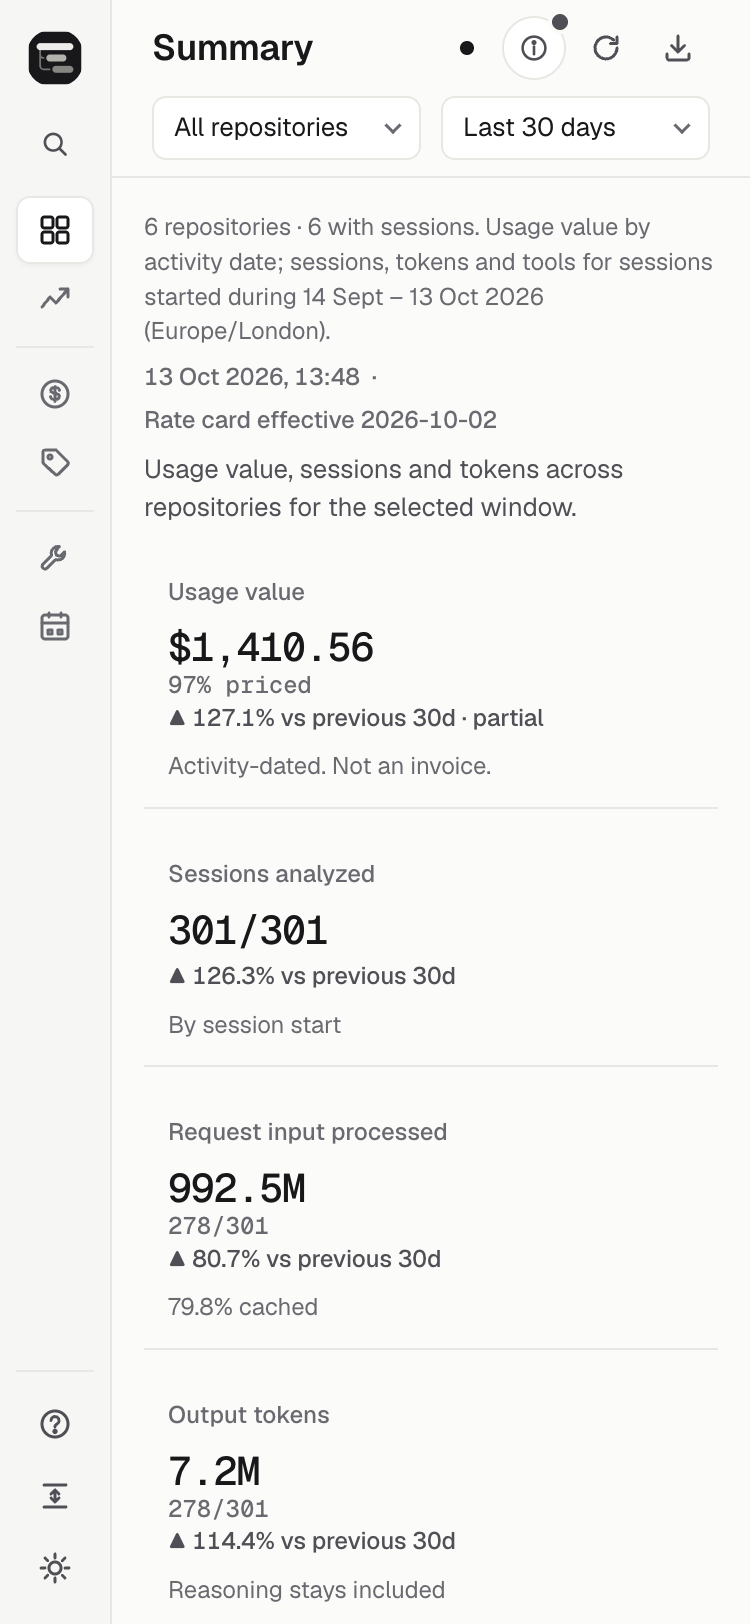
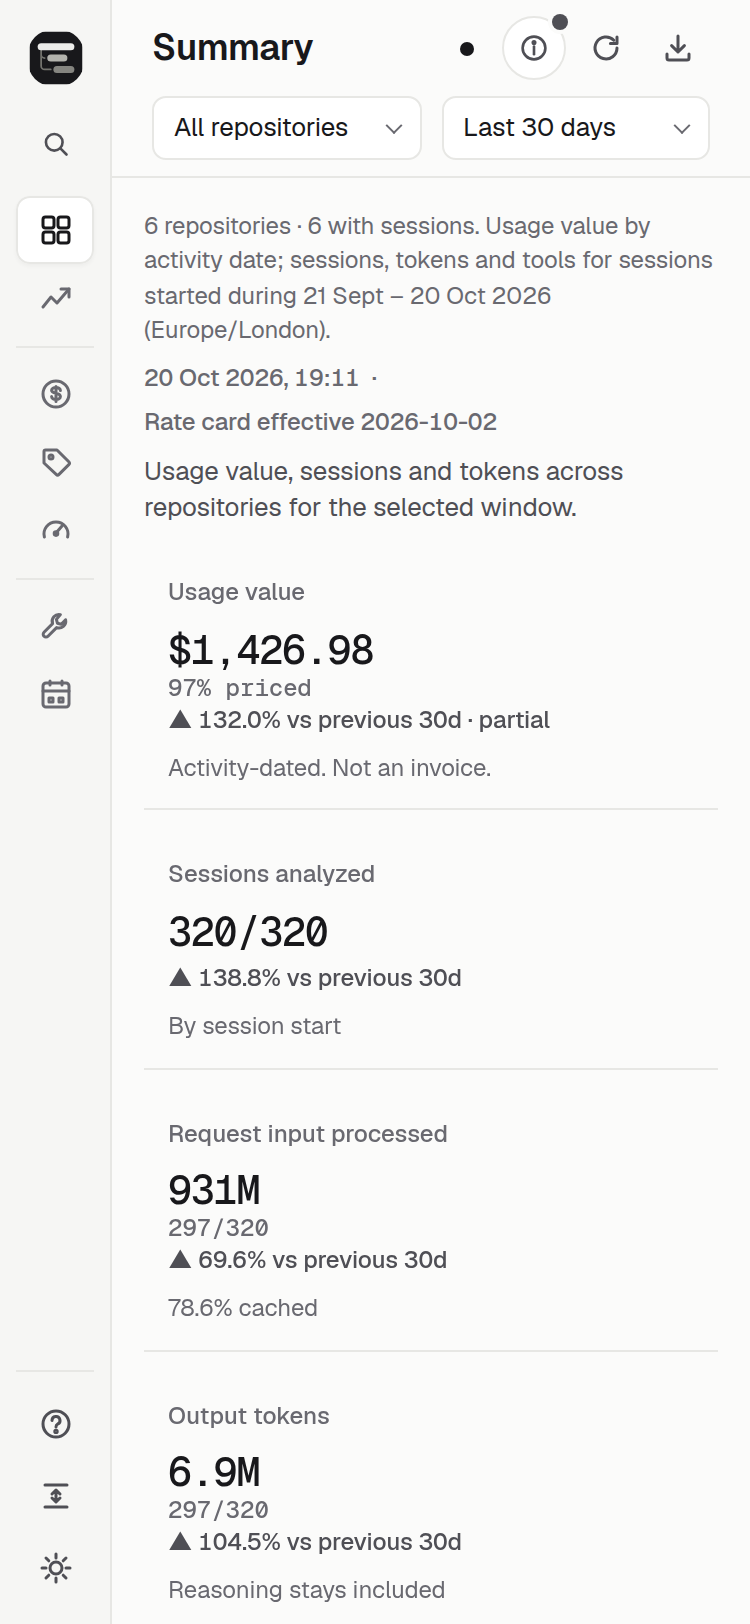
docs: refresh screenshots for Antigravity

diff --git a/scripts/screenshots.ts b/scripts/screenshots.ts
@@ -6,13 +6,12 @@
  *
  * Options: --url URL (default http://127.0.0.1:4175), --out DIR (default assets),
  * --only NAME (one capture, both themes), --chrome PATH (or the CHROME environment variable).
- * Requires Google Chrome and `cwebp` on PATH. Captures are 1280 CSS pixels wide at 2x, comfortable
+ * Requires Google Chrome and `cwebp` or ImageMagick (`magick`) on PATH. Captures are 1280 CSS pixels wide at 2x, comfortable
  * density, in light and dark themes, written as lossless WebP to assets/screenshot-<name>[-dark].webp.
  * The mobile capture uses 375 × 812 CSS pixels, compact density, at the same 2x scale.
  * Point --url at the demo only: the captured page content is written to the repository.
  */
-import { spawn } from "node:child_process";
-import { execFileSync } from "node:child_process";
+import { spawn, spawnSync } from "node:child_process";
 import { existsSync, mkdtempSync, rmSync, unlinkSync, writeFileSync } from "node:fs";
 import { createServer } from "node:net";
 import { tmpdir } from "node:os";
@@ -74,6 +73,20 @@ const WIDTH = 1280;
 const SCALE = 2;
 const FIT_PAD = 12;
 const COMMAND_TIMEOUT_MS = 30_000;
+
+function losslessWebp(png: string, target: string): void {
+  for (const [command, args] of [
+    ["cwebp", ["-quiet", "-lossless", "-z", "9", png, "-o", target]],
+    ["magick", [png, "-define", "webp:lossless=true", target]],
+  ] as const) {
+    const result = spawnSync(command, args, { encoding: "utf8" });
+    if ((result.error as NodeJS.ErrnoException | undefined)?.code === "ENOENT") continue;
+    if (result.error) throw result.error;
+    if (result.status !== 0) throw new Error(`${command} failed: ${result.stderr.trim()}`);
+    return;
+  }
+  throw new Error("Lossless WebP conversion needs cwebp or ImageMagick (magick) on PATH.");
+}
 
 function option(name: string): string | undefined {
   const index = process.argv.indexOf(name);
@@ -196,7 +209,7 @@ async function capture(session: Session, base: string, item: Capture, theme: "li
   const png = `${target}.png`;
   writeFileSync(png, Buffer.from(data, "base64"));
   try {
-    execFileSync("cwebp", ["-quiet", "-lossless", "-z", "9", png, "-o", target]);
+    losslessWebp(png, target);
   } finally {
     unlinkSync(png);
   }

diff --git a/docs/branding.md b/docs/branding.md
@@ -57,6 +57,7 @@ Provider/model identity comes from `src/public/chart-colors.js` and matching `--
 | GitHub Copilot | `#8250df` | `#9672ea` |
 | OpenCode | `#a8820d` | `#b98a14` |
 | Google Gemini | `#3a7be0` | `#4f8ae8` |
+| Antigravity (neutral ramp, `AG` text badge) | `#90908a` | `#80807a` |
 | Unknown / unsupported | `#90908a` | `#80807a` |
 | Neutral single series (repositories, tools, delegation) | `#4f4f55` | `#b3b3ad` |
 
@@ -71,13 +72,13 @@ Model shades belong to the family, never its rank or value: flagship tier 0, sta
 | GPT / Codex | Light | `#262624` | `#5c5c59` | `#8a8a86` | `#b5b5b0` |
 | GPT / Codex | Dark | `#e6e6e1` | `#9a9a96` | `#73736f` | `#6a6a66` |
 
-Velocity's non-provider groups (repository, execution kind, effort) use the `--category-0..3` ramp from `src/public/chart-colors.js`: green `#008719`, orchid `#dc6bc4`, lime `#9ac32b`, plum `#8a0e82` in light; `#357101`, `#df58aa`, `#56aa14`, `#9a4680` in dark. Greens and orchids are the hue families no provider uses. Every slot is at least OKLab ΔE 15 from every other slot and from every provider hue in both themes (all pairs, not only adjacent ones), and both themes pass the data-viz validator. Light lime is below 3:1 contrast on white, so these charts always carry a labelled legend and a text equivalent. A greens-only ramp was not used: within the dark-theme lightness band, four greens cannot get further apart than ΔE 9. Series past the fourth slot repeat the ramp with texture (stacked) or dashes (lines). Execution kinds and effort levels keep fixed slots, so their colours do not change with filters. Other and unknown series use the neutral `--provider-unknown` grey, which has at least 3:1 contrast on `--surface` in both themes. `--heat-*` uses a neutral intensity ramp for the activity heatmap. The provider hues pass the data-viz validator's adjacent-pair checks in provider order (worst adjacent CVD ΔE 10.7 light, 9.9 dark); with all six on screen at once, Gemini blue and Copilot purple are close under deuteranopia, so provider charts always carry a labelled legend. Cost components use shades of the provider hue (or neutral ink for repositories), with stripes for provider-reported value. Legends use readable neutral text and support pointer highlighting; they are list items, not tab stops (charts have their own keyboard readout). Cost, model and tool bars share the maximum across their panel, with no minimum fill width.
+Velocity's non-provider groups (repository, execution kind, effort) use the `--category-0..3` ramp from `src/public/chart-colors.js`: green `#008719`, orchid `#dc6bc4`, lime `#9ac32b`, plum `#8a0e82` in light; `#357101`, `#df58aa`, `#56aa14`, `#9a4680` in dark. Greens and orchids are the hue families no provider uses. Every slot is at least OKLab ΔE 15 from every other slot and from every provider hue in both themes (all pairs, not only adjacent ones), and both themes pass the data-viz validator. Light lime is below 3:1 contrast on white, so these charts always carry a labelled legend and a text equivalent. A greens-only ramp was not used: within the dark-theme lightness band, four greens cannot get further apart than ΔE 9. Series past the fourth slot repeat the ramp with texture (stacked) or dashes (lines). Execution kinds and effort levels keep fixed slots, so their colours do not change with filters. Other and unknown series use the neutral `--provider-unknown` grey, which has at least 3:1 contrast on `--surface` in both themes. `--heat-*` uses a neutral intensity ramp for the activity heatmap. The provider hues pass the data-viz validator's adjacent-pair checks in provider order (worst adjacent CVD ΔE 10.7 light, 9.9 dark); with all seven on screen at once, Gemini blue and Copilot purple are close under deuteranopia, so provider charts always carry a labelled legend. Cost components use shades of the provider hue (or neutral ink for repositories), with stripes for provider-reported value. Legends use readable neutral text and support pointer highlighting; they are list items, not tab stops (charts have their own keyboard readout). Cost, model and tool bars share the maximum across their panel, with no minimum fill width.
 
 ### Regenerating images
 
 The SVGs are the editable brand sources. Keep the mark geometry and palette aligned with `src/public/favicon.svg` and the dashboard wordmark. Text remains editable SVG text; embedded WOFF2 data comes from `src/public/fonts/`. After editing, render `assets/logo.svg` at 512 × 512 and `assets/social-preview.svg` at 1280 × 640 in a browser and save PNGs at those exact dimensions. Wait for `document.fonts.ready` before capturing. Use a transparent background for the mark. Check the light and dark wordmarks at the README’s 440px display width.
 
-Screenshots come from the demo dataset only. In one terminal, start `npm run demo -- --no-open`; in another, run `node scripts/screenshots.ts --url http://127.0.0.1:4175`. The script requires Chrome and `cwebp`, captures desktop views at 1280 CSS pixels and 2x scale in comfortable density, and writes lossless light/dark WebP pairs to `assets/`. The `--only mobile` capture uses 375 × 812 CSS pixels, 2x scale and compact density. Use `--only NAME` for one capture or `--out DIR` for a review artifact directory. See [screenshot provenance](../assets/SCREENSHOTS.md) for the source and capture settings. Never point it at a dashboard reading real history.
+Screenshots come from the demo dataset only, including Antigravity's synthetic SQLite sessions. In one terminal, start `npm run demo -- --no-open`; in another, run `node scripts/screenshots.ts --url http://127.0.0.1:4175`. The script requires Chrome and either `cwebp` or ImageMagick (`magick`), captures desktop views at 1280 CSS pixels and 2x scale in comfortable density, and writes lossless light/dark WebP pairs to `assets/`. The `--only mobile` capture uses 375 × 812 CSS pixels, 2x scale and compact density. Use `--only NAME` for one capture or `--out DIR` for a review artifact directory. See [screenshot provenance](../assets/SCREENSHOTS.md) for the source and capture settings. Never point it at a dashboard reading real history.
 
 ## Renaming the product
 

diff --git a/docs/architecture.md b/docs/architecture.md
@@ -186,7 +186,7 @@ Retained facts use the parser and price card from their last successful ingest. 
 
 ## Dashboard client
 
-Navigation groups are Overview (Summary, Velocity), Economics (Costs, Pricing), and Usage (Tools, Activity). Activity is last in navigation, view stepping and the command palette. The shared window defaults to 30 days; an explicit `?window=` preset overrides it without browser persistence. The URL follows the view, window (`?window=`, custom `?start=`/`?end=`) and repository focus (`?repo=` with the opaque repository ID): view, preset and repository changes add a history entry, date edits replace the current one, and Back/Forward restores them (`src/public/url-state.js`). `?open=`, `?theme=` and `?density=` are one-shot: applied once, then removed, and never saved as preferences. `src/public/theme-boot.js` is a same-origin classic script in `<head>` that sets the theme and density before the first paint, because the CSP forbids inline scripts.
+Navigation groups are Overview (Summary, Velocity), Economics (Costs, Pricing, Subscription), and Usage (Tools, Activity). Activity is last in navigation, view stepping and the command palette. The shared window defaults to 30 days; an explicit `?window=` preset overrides it without browser persistence. The URL follows the view, window (`?window=`, custom `?start=`/`?end=`) and repository focus (`?repo=` with the opaque repository ID): view, preset and repository changes add a history entry, date edits replace the current one, and Back/Forward restores them (`src/public/url-state.js`). `?open=`, `?theme=` and `?density=` are one-shot: applied once, then removed, and never saved as preferences. `src/public/theme-boot.js` is a same-origin classic script in `<head>` that sets the theme and density before the first paint, because the CSP forbids inline scripts.
 
 `src/public/app.js` is a plain ES module with no framework or build step. It fetches one snapshot and derives every view from the flattened `sessions` list, so time-window, repository, and provider filters are applied in the browser without another scan. Every money figure for a window (Summary, fleet table, Costs, Pricing, Velocity and the daily CSV export) sums the activity ledger's event-date cells through `buildVelocity` (`ledgerMoney` in `view-model.js` splits it by cost basis, provider and model), independently of session-start filtering, so a long-running session can contribute value after its start falls outside the window and every view shows the same total. Session counts, tokens and tools select sessions by start date. The snapshot declares the analysis timezone; both calendars use it. Legacy UTC spend fields remain available to other consumers. Only the active view is rendered. Charts are built as inline SVG and DOM nodes; no inline scripts or styles are used, which keeps the CSP strict.
 
@@ -210,7 +210,7 @@ The remaining native parsers can move behind the adapter boundary introduced bel
 
 Additional adapters run sequentially after the original stores. For the same Cursor ID, composer evidence wins over SDK runs, and SDK runs win over activity-only transcripts. Identity matching is exact; tools or tokens from copies are never added together. Conductor results run last and cannot supplement any canonical provider identity or uniquely recovered legacy session. Distinct SDK result UUIDs are counted once, including duplicate database envelopes; rows without provider IDs can use the result's own identity to suppress copies.
 
-New JSONL readers release streams on early identity exit and retain only projected data. Recursive discovery does not follow child symlinks and is limited to eight directory levels. Legacy monolithic Gemini JSON is limited to 32 MiB, with JSONL available for larger histories. Source failures produce fixed warnings, retain successfully read sessions, and do not echo exceptions. All SQLite connections use `readOnly: true` and close in `finally` blocks. A missing new store is normal; a present unsupported store emits a fixed warning.
+New JSONL readers release streams on early identity exit and retain only projected data. Recursive discovery does not follow child symlinks and is limited to eight directory levels. Legacy monolithic Gemini JSON is limited to 4 MiB, with JSONL available for larger histories. Source failures produce fixed warnings, retain successfully read sessions, and do not echo exceptions. All SQLite connections use `readOnly: true` and close in `finally` blocks. A missing new store is normal; a present unsupported store emits a fixed warning.
 
 Gemini maps a provider project hash through known repository/workspace paths, `projects.json`, or `.project_root`; Cursor's encoded project directory is matched only to an unambiguous known path. Unresolved projects receive a pseudonymous unassigned group. The code never guesses a filesystem path by reversing an encoded folder name.
 

diff --git a/assets/SCREENSHOTS.md b/assets/SCREENSHOTS.md
@@ -2,11 +2,13 @@
 
 Dashboard screenshots contain synthetic fixtures only. They do not show developer session history.
 
-All captures were refreshed on 2026-10-13 from `node scripts/demo.ts --no-open --port 4193` through the T3 collaborative preview. Desktop views use 1280 CSS pixels and comfortable density, in light and dark themes. Velocity opens with the default Model grouping. Summary includes the complete totals rail and provider breakdown.
+All 26 captures were refreshed on 2026-10-20 from `node scripts/demo.ts --no-open --port 4193` with `node scripts/screenshots.ts --url http://127.0.0.1:4193`. The source baseline is `ec8fbd0`, including Antigravity support and the seven-view navigation.
 
-`screenshot-subscription.webp` and `screenshot-subscription-dark.webp` were captured on 2026-10-15 with `node scripts/screenshots.ts --only subscription` at 1280 CSS pixels, 2×, comfortable density, from the demo's synthetic limits (two Claude profiles and one Codex account). The capture waits for the meters, then ends below the first row of account cards.
+The captured snapshot was generated at `2026-10-20T18:11:15.267Z`: 481 sessions across six fictional repositories and all seven providers, including 24 Antigravity sessions. Antigravity's token/tool fixtures contribute to provider charts, repository breakdowns, tool-call totals and coverage. These fixtures do not establish live Antigravity calibration or support for legacy `.pb` histories.
 
-`screenshot-mobile.webp` and `screenshot-mobile-dark.webp` use 375 × 812 CSS pixels, compact density and the default 30-day window. A temporary proxy exposed only the synthetic demo to the preview host. The preview's PNG output is 1× for desktop captures and 2× for mobile. ImageMagick converted it to lossless WebP without resizing; detail captures were cropped to their panels with padding. Longer views show their opening viewport.
+Desktop views use 1280 CSS pixels, comfortable density and the default 30-day window in both themes. Velocity opens with the default Model grouping. Summary includes the complete totals rail and provider breakdown. Subscription waits for its synthetic meters (two Claude profiles and one Codex account), then ends below the first row of account cards.
+
+The mobile pair uses 375 × 812 CSS pixels, compact density and the same window. Chrome captures every image at 2× scale; ImageMagick converts the PNGs to lossless WebP without resizing. Detail captures are clipped to their panels with padding; longer views show their opening viewport. No real-history dashboard or proxy is used.
 
 For scripted regeneration, start a synthetic demo and run:
 
@@ -14,4 +16,4 @@ For scripted regeneration, start a synthetic demo and run:
 node scripts/screenshots.ts --url http://127.0.0.1:4193
 ```
 
-The script requires Chrome and `cwebp`, produces 2× images, and accepts `--only mobile` for the phone pair. Never point it at a dashboard containing real session history before copying output into the repository.
+The script requires Chrome and either `cwebp` or ImageMagick (`magick`), produces 2× images, and accepts `--only mobile` for the phone pair. It prefers `cwebp` when available; both conversion paths are lossless. Never point it at a dashboard containing real session history before copying output into the repository.

diff --git a/docs/cli.md b/docs/cli.md
@@ -291,7 +291,7 @@ npm run demo -- report            # terminal report of the same data
 node scripts/demo.ts mcp          # MCP server over the synthetic data
 ```
 
-The demo generates about 60 days of synthetic sessions for six fictional repositories in a temporary directory, points every source option at that directory,, runs with `HOME` set to a synthetic home inside it, and deletes it on exit. It never reads real history. The synthetic home holds two Claude profiles (a Max plan and a Team seat) with synthetic `.claude.json` plan enums and T3-style limit event logs, and the Codex rollouts carry `rate_limits`, so the Subscription view shows two Claude accounts with different weekly reset days and their own 5-hour windows (a Team seat that runs past its weekly allowance onto extra usage, and a Max plan without extra usage with a capped 5-hour window and an in-place reset), and a ChatGPT Pro account with a banked reset. Every screenshot in this repository is rendered from it. `--bin PATH` (or `SESSION_ANALYTICS_DEMO_BIN`) runs the same data through another build, such as the `bin/session-analytics.js` of an installed package, and `SESSION_ANALYTICS_DEMO_NOW=<ISO 8601 instant>` generates the data as of that instant, so two runs analyze the same sessions. `node scripts/smoke-installed.ts TARBALL` uses both to compare a packed release, installed into a temporary prefix, with the checkout.
+The demo generates about 60 days of synthetic sessions for six fictional repositories in a temporary directory, points every source option at that directory, runs with `HOME` set to a synthetic home inside it, and deletes it on exit. It never reads real history. The synthetic home holds two Claude profiles (a Max plan and a Team seat) with synthetic `.claude.json` plan enums and T3-style limit event logs, and the Codex rollouts carry `rate_limits`, so the Subscription view shows two Claude accounts with different weekly reset days and their own 5-hour windows (a Team seat that runs past its weekly allowance onto extra usage, and a Max plan without extra usage with a capped 5-hour window and an in-place reset), and a ChatGPT Pro account with a banked reset. Every screenshot in this repository is rendered from it. `--bin PATH` (or `SESSION_ANALYTICS_DEMO_BIN`) runs the same data through another build, such as the `bin/session-analytics.js` of an installed package, and `SESSION_ANALYTICS_DEMO_NOW=<ISO 8601 instant>` generates the data as of that instant, so two runs analyze the same sessions. `node scripts/smoke-installed.ts TARBALL` uses both to compare a packed release, installed into a temporary prefix, with the checkout.
 
 Developers can run `node scripts/parity.ts --machine` to compare full, cold-index and warm-index accounting. It uses the 1024 MB analysis worker, offline pricing, a fresh private index under `.lane/`, and the shared real-scan lock. Output contains month/provider totals and differences by hashed session key, never repository names or transcript content. Live source changes are reported separately and do not suppress the unfiltered diff or a failing exit status. Use `--demo-root PATH` with a retained synthetic demo for repeatable local checks.
 

diff --git a/docs/dashboard.md b/docs/dashboard.md
@@ -2,7 +2,7 @@
 
 [Back to the README](../README.md) · [Run the demo](cli.md#demo-and-developer-scripts)
 
-All screenshots use synthetic demo data and follow your light or dark theme.
+All screenshots use synthetic demo data from all seven providers, including Antigravity, and follow your light or dark theme. [Capture provenance and regeneration](../assets/SCREENSHOTS.md).
 
 The dashboard runs on `127.0.0.1` and has seven views in three groups: **Overview** (Summary, Velocity), **Economics** (Costs, Pricing, Subscription) and **Usage** (Tools, Activity). A window selector at the top switches between the last 7, 30 or 90 days, all history, or a custom range. The sidebar lists every repository with a sparkline and its value, and clicking one focuses every view on that repository except Subscription, whose limits are account-wide. A command palette (<kbd>⌘K</kbd>), `g`-prefixed shortcuts, light and dark themes, two densities and an address bar that follows the view, window and focus make it quick to move around and to share a link to exactly what you are looking at.
 
@@ -146,7 +146,7 @@ The command palette jumps to any view or repository, toggles provider chips and 
 <p align="center">
   <picture>
     <source media="(prefers-color-scheme: dark)" srcset="../assets/screenshot-palette-dark.webp" />
-    <img alt="The command palette: Go to Summary, Velocity, Costs, Pricing, Tools and Activity with their g-shortcuts, then All repositories and Focus entries for each repository" src="../assets/screenshot-palette.webp" width="600" />
+    <img alt="The command palette: Go to Summary, Velocity, Costs, Pricing, Subscription, Tools and Activity with their g-shortcuts, then All repositories and Focus entries for each repository" src="../assets/screenshot-palette.webp" width="600" />
   </picture>
 </p>
 

diff --git a/README.md b/README.md
@@ -16,7 +16,7 @@ Local and read-only. No prompts, messages or file paths in its outputs.</p>
 
 <picture>
   <source media="(prefers-color-scheme: dark)" srcset="assets/screenshot-summary-dark.webp" />
-  <img alt="Summary dashboard with usage value, token and tool counters, daily value by provider, and repository filters" src="assets/screenshot-summary.webp" width="100%" />
+  <img alt="Summary dashboard with usage value, token and tool counters, daily value across seven providers including Antigravity, and repository filters" src="assets/screenshot-summary.webp" width="100%" />
 </picture>
 
 *Synthetic demo data. [Full dashboard tour →](docs/dashboard.md)*
